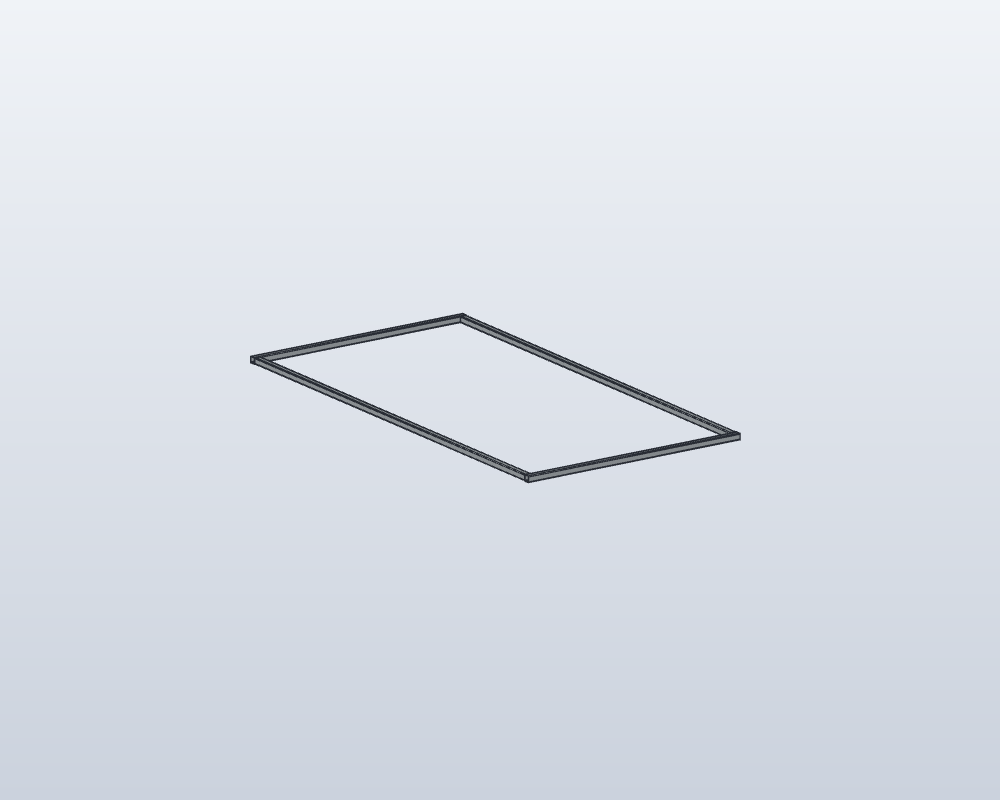
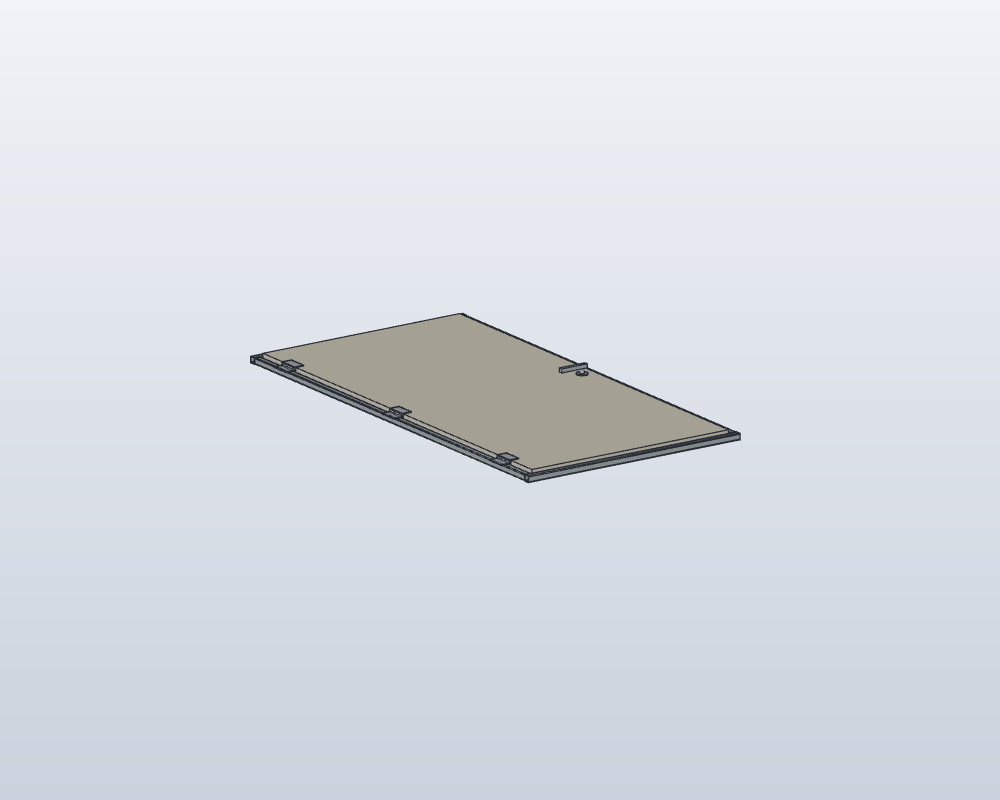
WIP: Werkstatt W20 Schritt 3: Tuerblatt 1000x2000x40, Anschlag, Dichtung, 3 Scharniere, Druecker in tuer_komplett.sc (Blatt 24,8 kg)

Changed region(s): [[0.248, 0.375, 0.744, 0.5938]]

diff --git a/scripts/workshop/tuer.py b/scripts/workshop/tuer.py
@@ -1,5 +1,6 @@
 """Tuer komplett T50 (W20, D36, R13): Zarge aus Rechteckrohr (Schritt 2), Tuerblatt (Schritt 3) in der Feldebene des Basisfeldes BBB 149,2.
 Feld-KS (siehe tuer_geom.py): Ursprung Mitte der Basiskante auf Z 0, X tangential, Y' hangaufwaerts in der Feldebene, Z' Feldnormale nach aussen. Zarge: Schwelle (s 0..rohr), Pfosten (je Seite, Lichte dazwischen), Sturz.
+Tuerblatt (Schritt 3): Z' -11..29 (40 dick), Spiel unten 2 / oben 6 / seitlich 8, Anschlag innen (Z' -15..-12), oeffnet nach aussen (+Z'), Scharniere links (3 Aufschraubbaender), Druecker rechts, Dichtung auf dem Anschlag.
 Aufruf: python scripts/workshop/tuer.py [--render]"""
 import json, math, os, sys
 sys.path.insert(0, os.path.dirname(__file__))
@@ -37,8 +38,47 @@ def build():
         rect_member(b, nm, dims, [sg * (lw / 2 + r / 2), sh, 0], [0, 0, 1], [1, 0, 0], lh)
     # Sturz: ueber den Pfosten, s = sh + lh .. + r
     rect_member(b, "Sturz", dims, [0, sh + lh + r / 2, 0], [0, 1, 0], [0, 0, 1], fw, symmetric=True)
+    # --- Tuerblatt 1000 x 2000 x 40 (Sandwich), Z' -11..29
+    bw, bh, bt = p["blatt_w"], p["blatt_h"], p["blatt_t"]
+    z0b = -11.0
+    s0b = sh + 2.0                                                              # Spiel unten 2 mm
     b.add("component.activate", component=root)
-    for nm, pn, ds in ((root, "T50", d["beschreibung"]), ("T50a_Zarge", "T50a", "Zarge aus Rechteckrohr 30 x 30 x 2: Schwelle, 2 Pfosten, Sturz (Lichte 1016 x 2008)")):
+    b.add("component.create", name="T50b_Tuerblatt")
+    b.add("material.create", name="Tuerblatt Sandwich", density_g_cm3=0.31, color="#d9d3c3")
+    b.add("solid.box", length=bw, width=bh, height=bt, center=[0, s0b + bh / 2, z0b + bt / 2], operation="new", name="Blatt_R", body_name="Tuerblatt")
+    b.add("material.assign", bodies=["Tuerblatt"], material="Tuerblatt Sandwich")
+    # --- Anschlag innen (Flachstahl 14 x 3) auf Pfosten und Sturz, Dichtung (EPDM 6 x 1, Spalt Anschlag-Blatt 1 mm) auf dem Anschlag
+    b.add("component.activate", component=root)
+    b.add("component.create", name="T50c_Anschlag_Dichtung")
+    b.add("material.create", name="EPDM schwarz", density_g_cm3=1.1, color="#222222")
+    sx, sz0, sz1 = lw / 2, sh, sh + lh
+    for sg, nm in ((-1, "Anschlag_links"), (1, "Anschlag_rechts")):
+        b.add("solid.box", length=14, width=lh, height=3, center=[sg * (sx - 7), sz0 + lh / 2, -15 + 1.5], operation="new", name="AS_" + nm, body_name=nm)
+    b.add("solid.box", length=lw - 28, width=14, height=3, center=[0, sz1 - 7, -15 + 1.5], operation="new", name="AS_Sturz", body_name="Anschlag_Sturz")
+    b.add("material.assign", bodies=["Anschlag_links", "Anschlag_rechts", "Anschlag_Sturz"], material="Stahl verzinkt")
+    for sg, nm in ((-1, "Dichtung_links"), (1, "Dichtung_rechts")):
+        b.add("solid.box", length=6, width=lh - 14, height=1, center=[sg * (sx - 17), sz0 + (lh - 14) / 2 + 0, -12 + 0.5], operation="new", name="DI_" + nm, body_name=nm)
+    b.add("solid.box", length=lw - 2 * 17 - 12, width=6, height=1, center=[0, sz1 - 17, -12 + 0.5], operation="new", name="DI_Sturz", body_name="Dichtung_Sturz")
+    b.add("material.assign", bodies=["Dichtung_links", "Dichtung_rechts", "Dichtung_Sturz"], material="EPDM schwarz")
+    # --- Beschlaege: 3 Aufschraubbaender links (Zargenlasche auf dem Pfosten Z' 15..19, Blattlasche auf dem Blatt Z' 29..33, Bolzen D10 dazwischen), Druecker rechts
+    b.add("component.activate", component=root)
+    b.add("component.create", name="T50d_Beschlaege")
+    hx = -(bw / 2 + 5)
+    for k, hs in enumerate((200, 1000, 1800), 1):
+        s_c = s0b + hs
+        b.add("solid.box", length=48, width=90, height=4, center=[hx - 20, s_c, 15 + 2], operation="new", name=f"SL_{k}", body_name=f"Scharnier{k}_Zargenlasche")
+        b.add("solid.box", length=48, width=90, height=4, center=[hx + 20, s_c, 29 + 2], operation="new", name=f"BL_{k}", body_name=f"Scharnier{k}_Blattlasche")
+        b.add("solid.cylinder", diameter=10, height=90, base=[hx, s_c - 45, 24], axis=[0, 1, 0], operation="new", name=f"BZ_{k}", body_name=f"Scharnier{k}_Bolzen")
+        b.add("material.assign", bodies=[f"Scharnier{k}_Zargenlasche", f"Scharnier{k}_Blattlasche", f"Scharnier{k}_Bolzen"], material="Stahl verzinkt")
+    gx, gs = bw / 2 - 60, s0b + 1000                                              # Druecker rechts auf Blatthoehe 1 m
+    for face, zf, dz, nm in ((1, 29, 1, "aussen"), (-1, -11, -1, "innen")):
+        b.add("solid.cylinder", diameter=50, height=4, base=[gx, gs, zf if face > 0 else zf - 4], axis=[0, 0, 1], operation="new", name=f"RO_{nm}", body_name=f"Rosette_{nm}")
+        b.add("solid.cylinder", diameter=18, height=40, base=[gx, gs, zf + (4 if face > 0 else -4)] if face > 0 else [gx, gs, zf - 4], axis=[0, 0, face], operation="new", name=f"DH_{nm}", body_name=f"Druecker_Hals_{nm}")
+        zl = zf + face * (4 + 40 - 9)
+        b.add("solid.box", length=130, width=18, height=18, center=[gx - 45, gs, zl], operation="new", name=f"DL_{nm}", body_name=f"Druecker_Hebel_{nm}")
+        b.add("material.assign", bodies=[f"Rosette_{nm}", f"Druecker_Hals_{nm}", f"Druecker_Hebel_{nm}"], material="Stahl verzinkt")
+    b.add("component.activate", component=root)
+    for nm, pn, ds in ((root, "T50", d["beschreibung"]), ("T50b_Tuerblatt", "T50b", "Tuerblatt 1000 x 2000 x 40 (Sandwich)"), ("T50c_Anschlag_Dichtung", "T50c", "Anschlag Flachstahl innen und EPDM-Dichtung"), ("T50d_Beschlaege", "T50d", "3 Aufschraubbaender links, Druecker rechts"), ("T50a_Zarge", "T50a", "Zarge aus Rechteckrohr 30 x 30 x 2: Schwelle, 2 Pfosten, Sturz (Lichte 1016 x 2008)")):
         b.add("component.metadata.set", component=nm, part_number=pn, description=ds, revision="B", properties={"Werkstoff": "Stahl verzinkt"})
     return b
 
